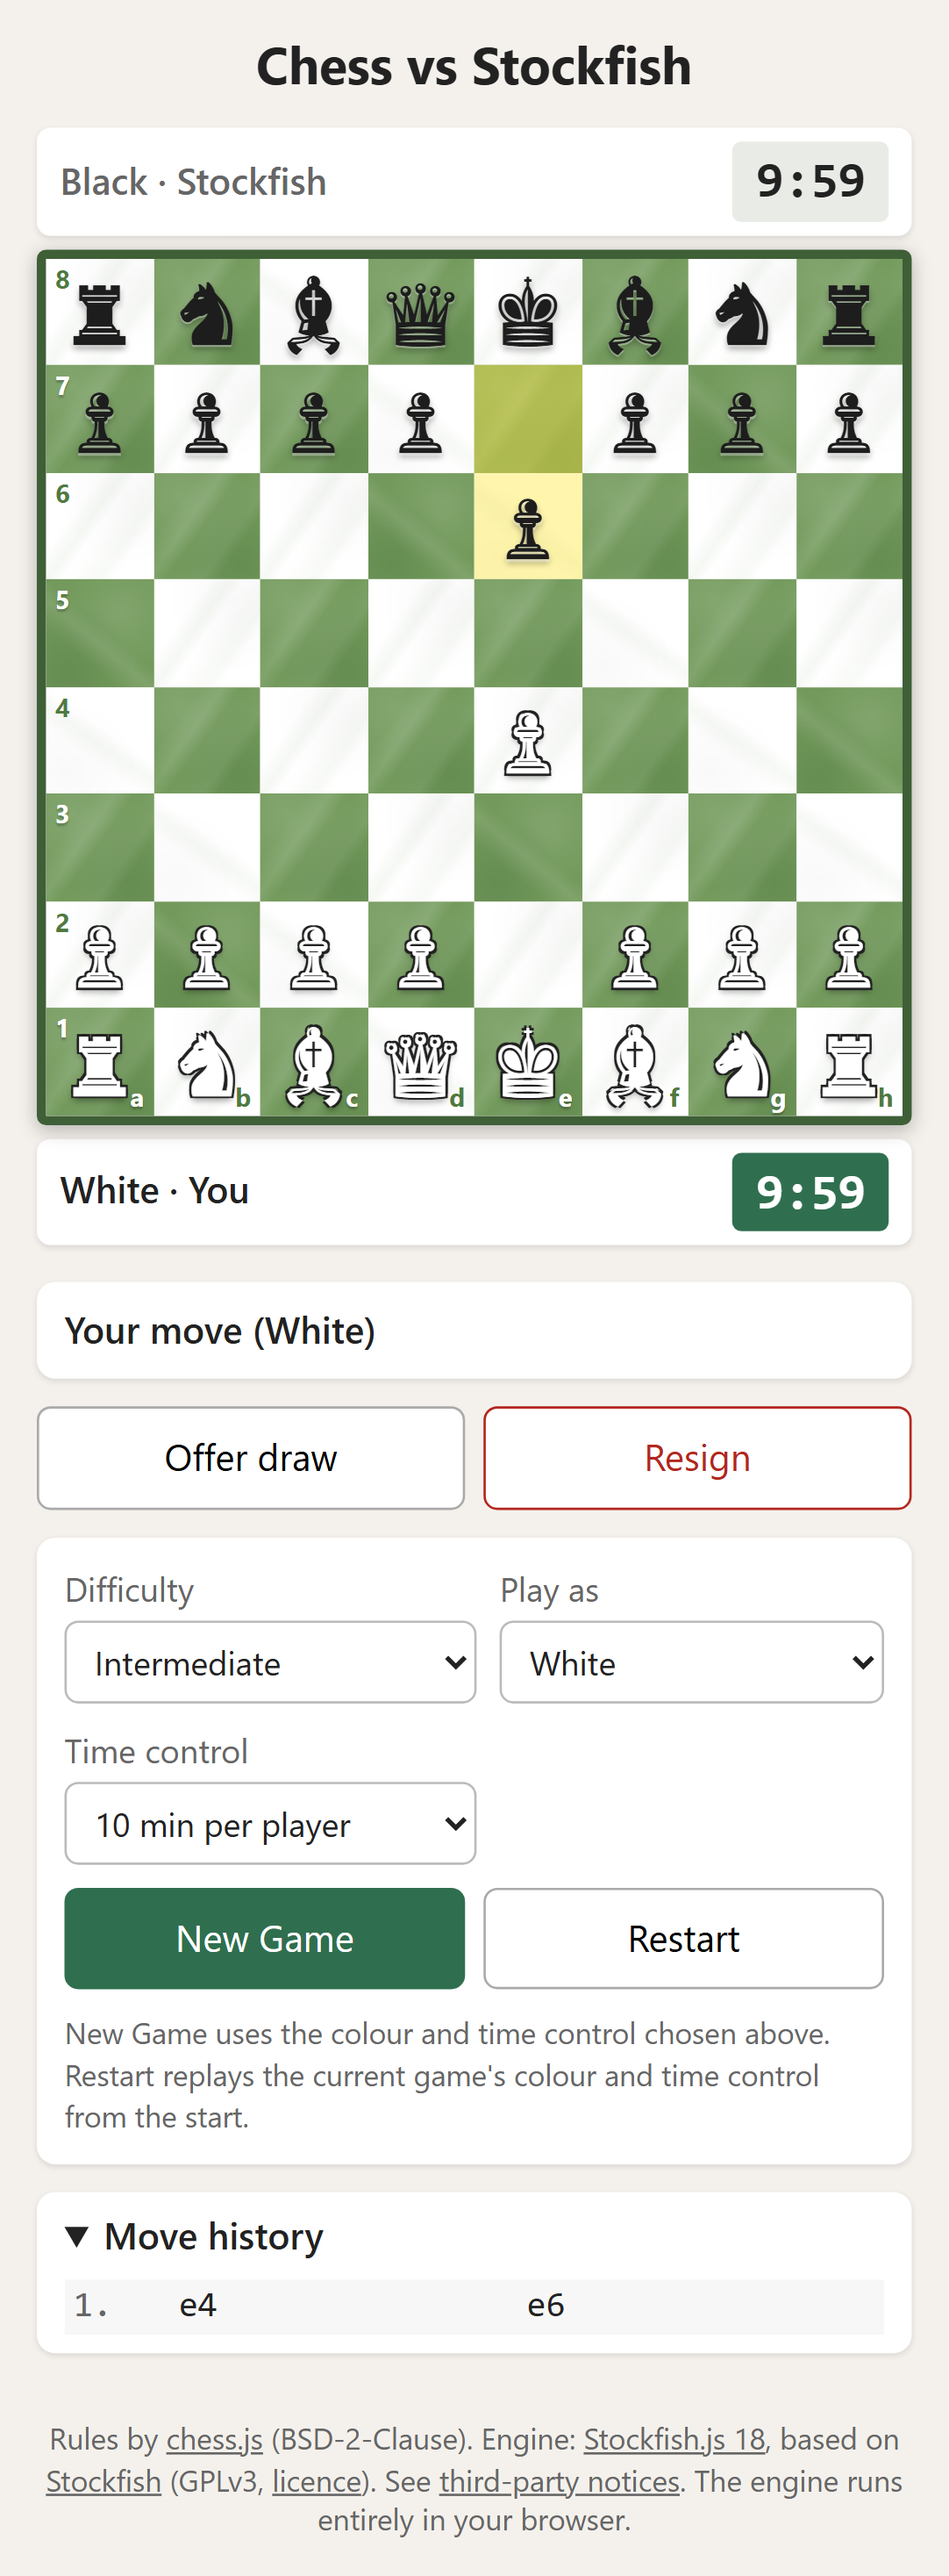
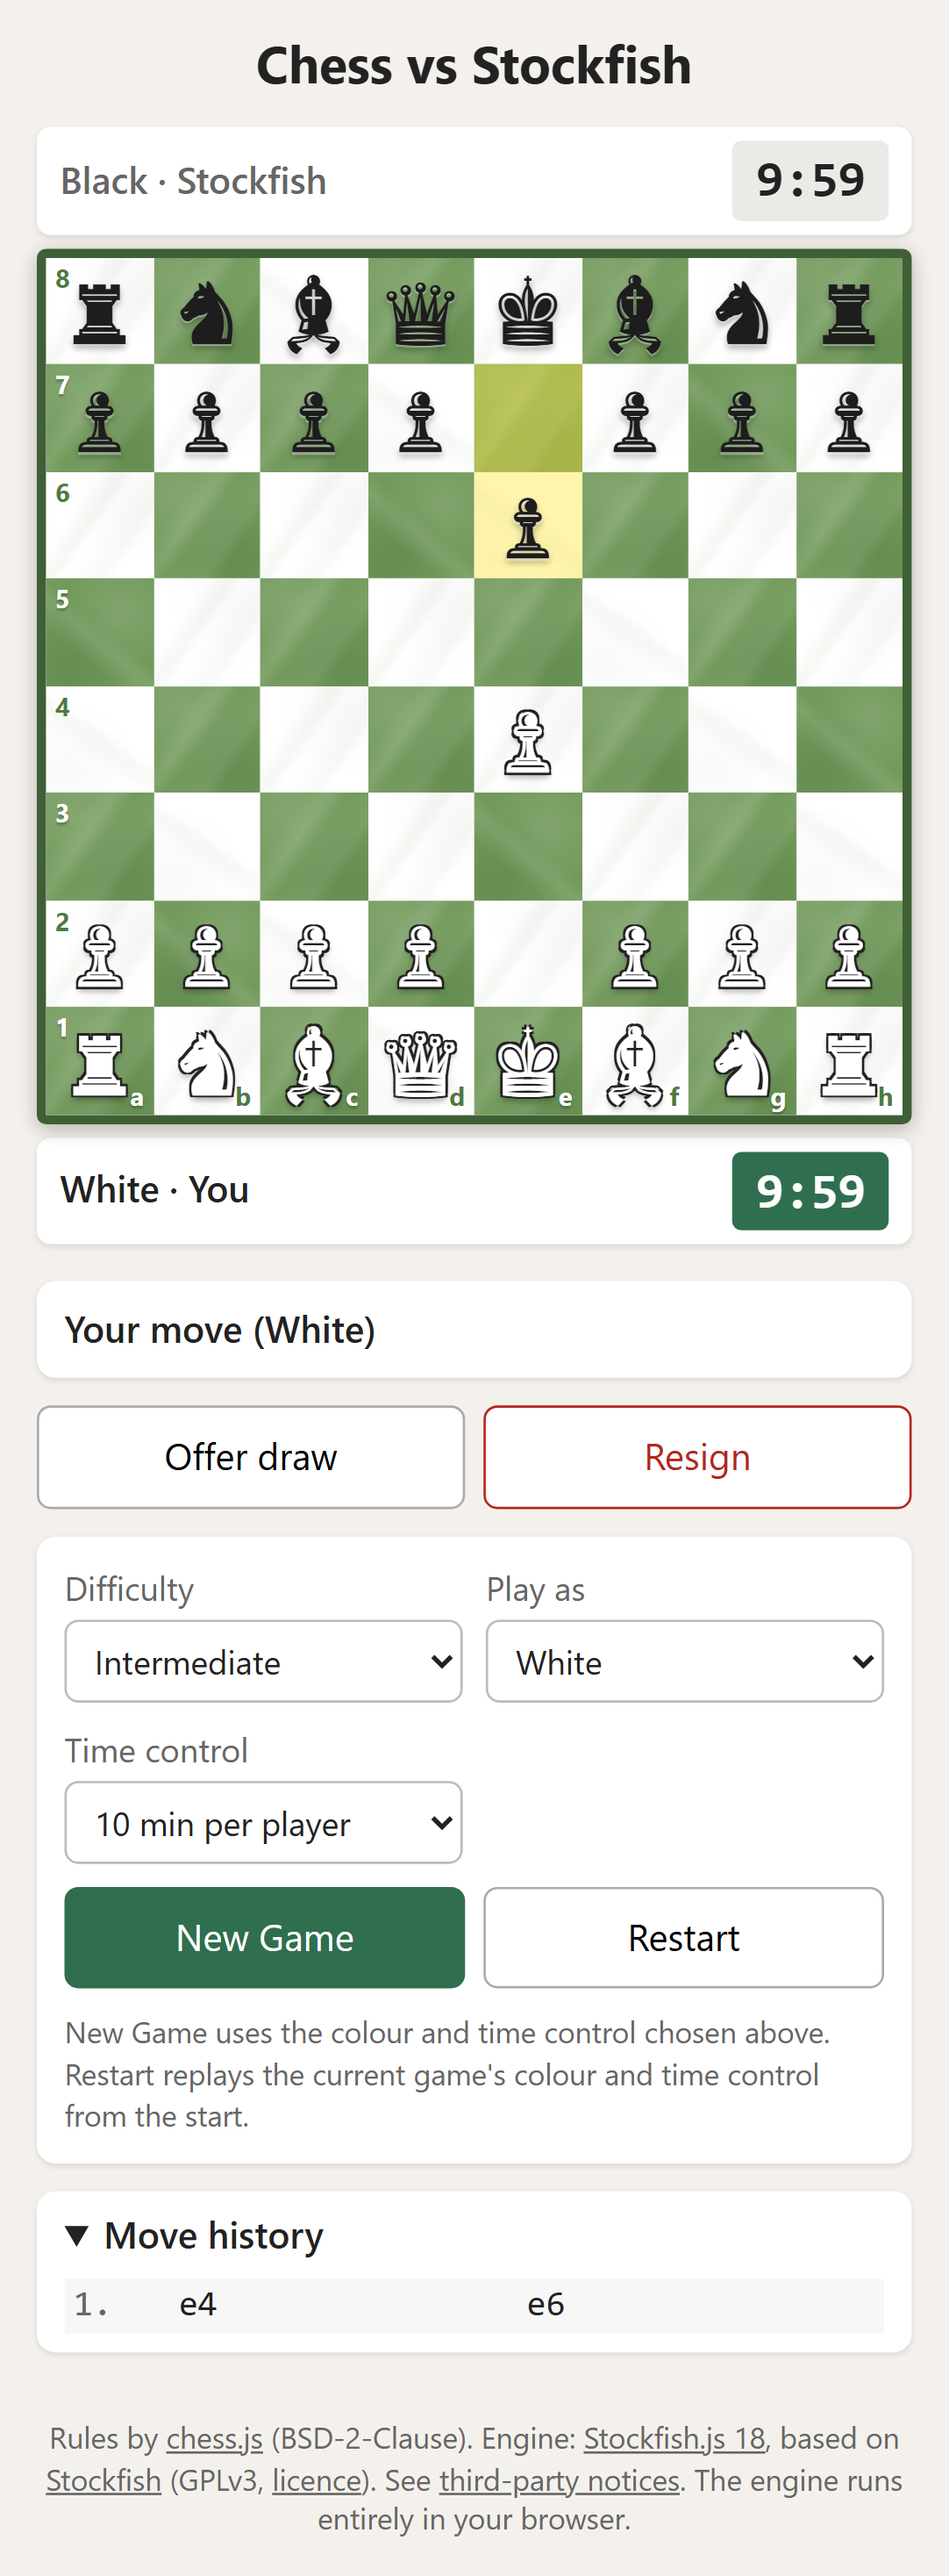
feat(engine): add Hard difficulty level between Advanced and Master
The jump from Advanced (UCI_Elo 2200) to Master (2600) was large.
Hard sits halfway at UCI_Elo 2400 with up to 900 ms per move, so
strength and thinking time still rise strictly level by level.
Tests, README and screenshots are updated to show seven levels.

diff --git a/js/config.js b/js/config.js
@@ -21,6 +21,7 @@ export const DIFFICULTY = {
   casual:       { label: 'Casual',                  elo: 1400, skill: 20, depth: null, movetime: 300 },
   intermediate: { label: 'Intermediate',            elo: 1800, skill: 20, depth: null, movetime: 500 },
   advanced:     { label: 'Advanced',                elo: 2200, skill: 20, depth: null, movetime: 800 },
+  hard:         { label: 'Hard',                    elo: 2400, skill: 20, depth: null, movetime: 900 },
   master:       { label: 'Master',                  elo: 2600, skill: 20, depth: null, movetime: 1000 },
   full:         { label: 'GrandMaster', elo: null, skill: 20, depth: null, movetime: 3000 },
 };

diff --git a/index.html b/index.html
@@ -72,6 +72,7 @@
             <option value="casual">Casual</option>
             <option value="intermediate" selected>Intermediate</option>
             <option value="advanced">Advanced</option>
+            <option value="hard">Hard</option>
             <option value="master">Master</option>
             <option value="full">GrandMaster</option>
           </select>

diff --git a/README.md b/README.md
@@ -12,7 +12,7 @@ the engine runs inside each visitor's browser.
 - The selected square, the last move and a king in check are all highlighted.
 - Play as White or Black (the board flips; the computer moves first when you're Black).
 - Every rule comes from chess.js: castling, en passant, promotion (choose Q/R/B/N, or cancel), check, checkmate, stalemate, threefold repetition, insufficient material and the 50-move rule.
-- Six difficulty levels: Beginner, Casual, Intermediate, Advanced, Master, GrandMaster.
+- Seven difficulty levels: Beginner, Casual, Intermediate, Advanced, Hard, Master, GrandMaster.
 - Chess clock: 3, 5, 10 or 15 minutes per player (see [Chess clock](#chess-clock)).
 - Offer draw (Stockfish decides with a documented rule, see [Draw offers](#draw-offers)) and Resign (with a confirmation step).
 - Green marble board with a–h / 1–8 coordinates. h1 and a8 are light squares, as on a real board.
@@ -101,6 +101,7 @@ Defined in `js/config.js`. The engine stops at whichever limit it reaches first.
 | Casual | `UCI_Elo` 1400 | no limit | 300 ms |
 | Intermediate (default) | `UCI_Elo` 1800 | no limit | 500 ms |
 | Advanced | `UCI_Elo` 2200 | no limit | 800 ms |
+| Hard | `UCI_Elo` 2400 | no limit | 900 ms |
 | Master | `UCI_Elo` 2600 | no limit | 1000 ms |
 | GrandMaster | none (`UCI_LimitStrength` off, `Skill Level` 20) | no limit | 3000 ms |
 
